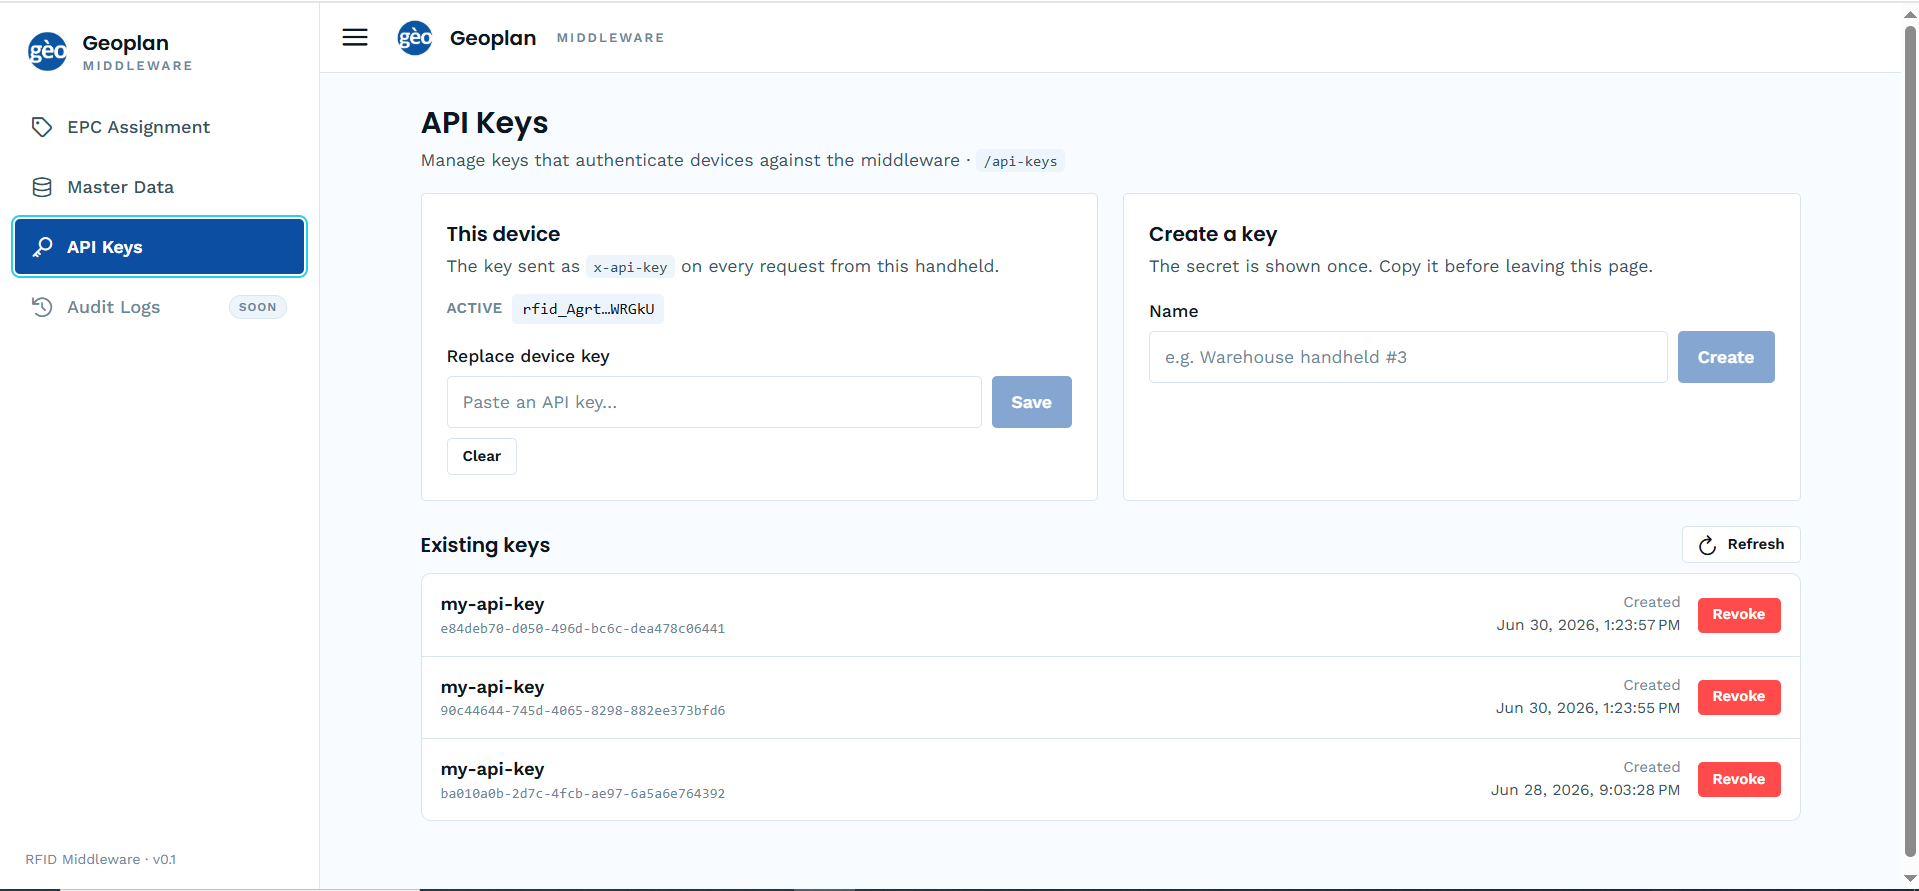
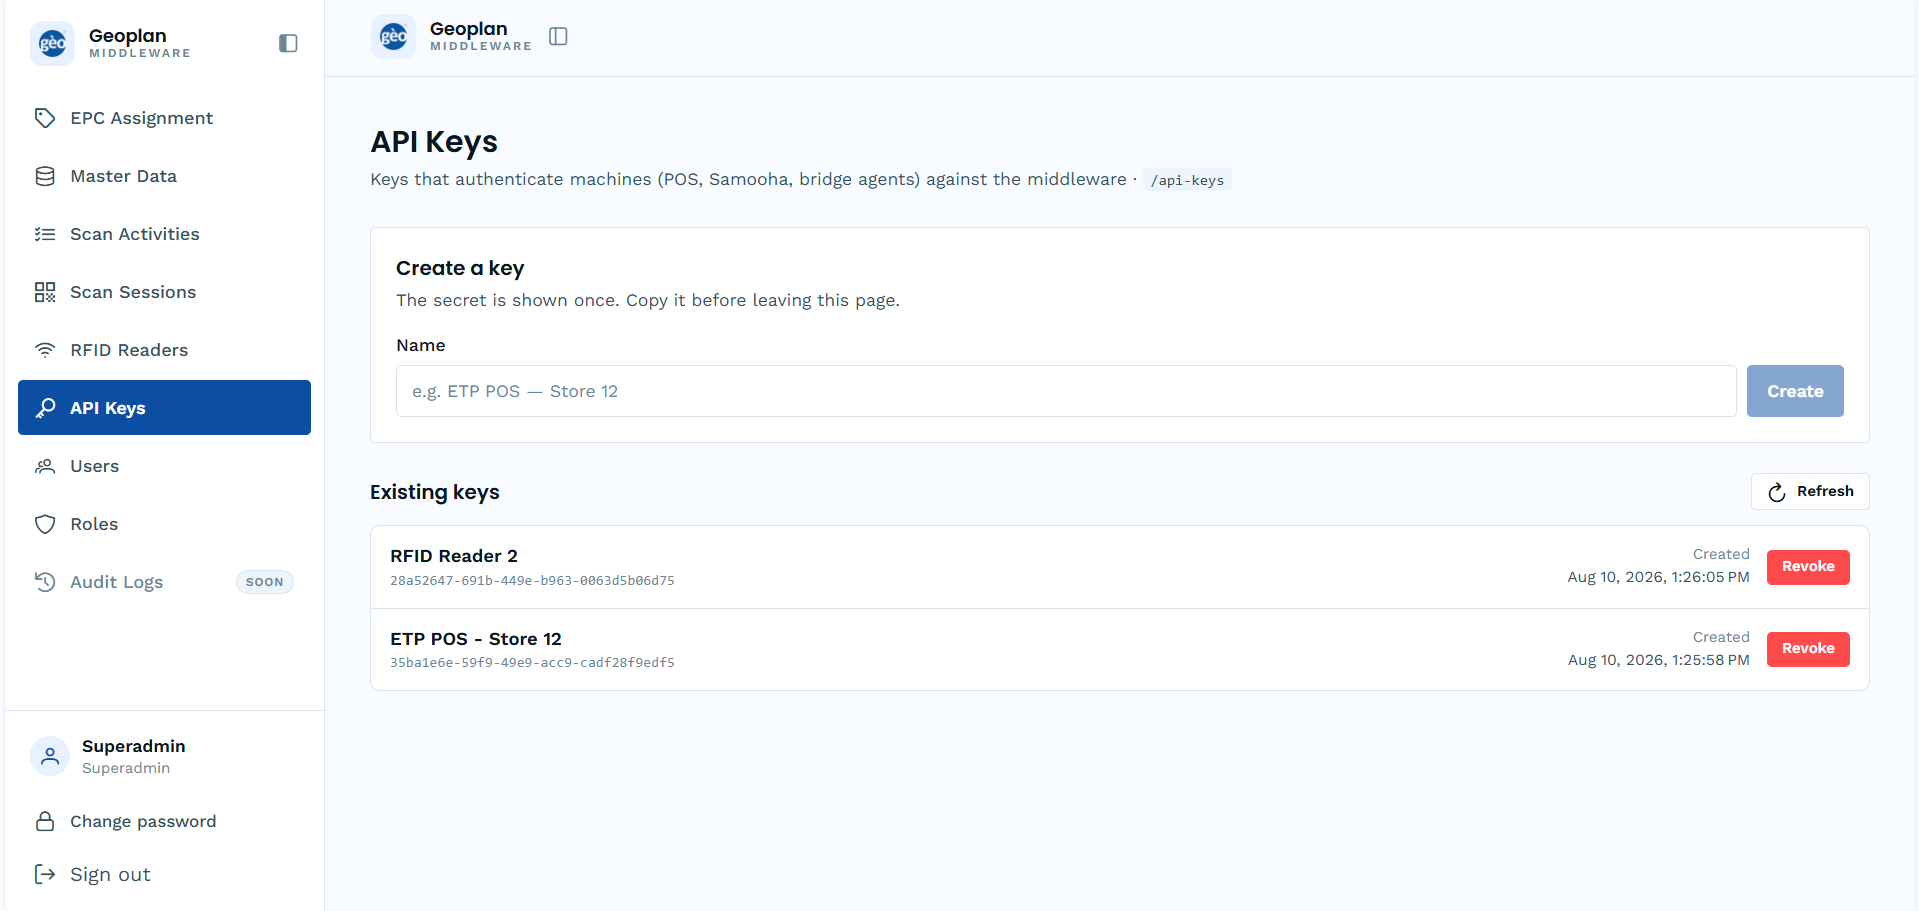
feat: add master data documentation for samooha integration.

diff --git a/docs/conflicts.md b/docs/conflicts.md
@@ -1,0 +1,94 @@
+# Docs ↔ knowledge-base conflicts
+
+Findings only — nothing here has been changed in the docs. Scope: **Samooha master data**. Other pages look inconsistent too; not investigated (see the last section).
+
+Compared: this repo's `src/content/docs/` against the knowledge base at `C:\Users\ppp\Documents\ssi_project` (`ai/knowledge/integrations/master-data-sync.md`, `ai/knowledge/integrations/samooha-geoplan.md`, `ai/knowledge/07-data-and-identifiers.md`, `ai/registers/decisions.md`, `ai/registers/open-questions.md`), plus the middleware repo `C:\Users\ppp\Documents\Geoplan\ssi-rfid-middleware` for what is actually built.
+
+Reviewed 2026-08-17.
+
+---
+
+## 1. No master-data documentation exists, and the old page contradicted the agreed design
+
+**Docs:** `src/content/docs/master-data-sync.mdx` was deleted in `7bc5519`; `astro.config.mjs:8` still redirects `/master-data-sync` → `/`. Nothing documents master data today.
+
+**The deleted page** described Geoplan **pulling** a catalogue from a configured source (`MASTER_DATA_SYNC_URL`, mock host `mock-master-data.geoplanph.com`) and published `GET /master-data-sync`, `/master-data-sync/delta`, `/master-data-sync/status`, `POST /master-data-sync/run`.
+
+**KB:** direction is **Samooha → Geoplan**, initial load by **CSV**, deltas by **API** (`D-069`, 2026-08-14).
+
+**Code has also moved on:** the list and delta endpoints now live at `GET /products` and `GET /products/delta`; source configuration is `/master-data-sources` (probe → create → activate); `master-data-sync` retains only `GET /status` and `POST /run`. So the old page was stale against both the KB and the code.
+
+**Impact:** the new page (`samooha/master-data.mdx`) documents the agreed design only and states no endpoints — because none are agreed for master data. If an endpoint-level contract is wanted, decide item 2 first.
+
+---
+
+## 2. Push vs pull — unresolved, and the built product picks a side
+
+**Built:** Geoplan fetches from a source URL the client configures. Samooha would have to **expose** a paginated product endpoint with an `updatedAfter` filter and `isDeleted` tombstones.
+
+**KB:** master-data direction is recorded as a Samooha → Geoplan **push**, but the caller is explicitly unconfirmed → `OQ-065`. Separately, `D-057` makes **Samooha the caller for every transaction exchange**, since Geoplan exposes no public webhooks — the opposite arrangement.
+
+**Impact:** the two integrations would call in opposite directions. The new page deliberately names no caller. This is the single most load-bearing open item for master data.
+
+---
+
+## 3. CSV initial load has no implementation
+
+**KB:** `D-069` — initial master-data load is a **CSV file**.
+
+**Code:** no CSV path anywhere in the middleware. `master-data-sync` and `master-data-sources` are URL-fetch only.
+
+**Also open:** `OQ-105` — manual CSV upload into the RFID platform (which datasets, which users, what permissions) was raised at Day 01 and never scoped.
+
+**Impact:** an agreed mechanism with no build behind it. Either the CSV path gets built, or the initial load rides the same API channel and `D-069` needs restating.
+
+---
+
+## 4. Rate limit published in the docs ≠ the limit agreed with Samooha
+
+**Docs:** `100 requests / 60s` — `scan-activities.mdx:16,58`, `epc-scan-processing.mdx:16,200`, `rfid-readers.mdx:14,70`, `exceptions.mdx:118`.
+
+**KB:** `D-053` — Geoplan applies **60 requests / 5 minutes** as custom anti-loop protection for the Samooha integration; no other third-party limit; to be re-assessed at test deployment.
+
+**Impact:** different number *and* different window. A nightly master-data sync of ~100k articles is exactly the traffic shape this decides. One of the two is wrong — the new page states no rate limit rather than pick.
+
+---
+
+## 5. The published product-master schema is Geoplan-shaped, not Samooha-shaped
+
+**Docs:** `qlik.mdx:24` — `master_data_sync` holds `sku`, `gtin`, `productName`, `epc`/`tid`. The deleted master-data page published the same field names as the contract.
+
+**KB:** Samooha's identifiers are **SKU / item code**, **EAN carried in the product-master Barcode field** (`D-058`), and the **VPM code**. Whether the vendor product mapping carries GTIN/EAN at all is still unconfirmed → `OQ-122`. Field-level schemas are unagreed → `OQ-060`.
+
+**Impact:** not necessarily wrong internally — Geoplan owns adaptation — but publishing `gtin` as the field a partner supplies prescribes a Geoplan-owned source schema, which the repo writing rules say to avoid, and it presumes `OQ-122`.
+
+---
+
+## 6. `UNKNOWN_EPC` states a behaviour that isn't agreed
+
+**Docs:** `samooha/index.mdx:102`, `etp-pos/index.mdx:100`, `exceptions.mdx:26` — "a scanned EPC has no matching master data", presented as a resolved exception type.
+
+**KB:** `OQ-056` — behaviour when a scanned EPC/SKU is **not** in the synced master is open. `D-076` names the warehouse exception categories (no-reads, duplicates, unknown EPCs, API failures) but not the handling rule.
+
+**Impact:** low for the exception label itself; the gap is that nothing tells Samooha what happens to the document line when the SKU is missing. Sharpened by `D-059` (payloads carry SKU only) and `OQ-063` (a same-day SKU won't be in last night's sync).
+
+---
+
+## 7. The overview page files master data under dashboard setup
+
+**Docs:** `index.mdx:12` — "setup is already done in the Geoplan dashboard: EPC assignment, master data sync, your API key…", i.e. out of scope for the reference.
+
+**KB:** for Samooha, master data is a **nightly interface from Samooha**, not a dashboard task, and `D-059` makes it a hard dependency of every transaction.
+
+**Impact:** hides the dependency from the audience most affected by it.
+
+---
+
+## Adjacent — spotted, not investigated
+
+Out of scope for this pass; listed so they aren't lost.
+
+- **Scan activities on the Samooha page** (`samooha/index.mdx:8,13,45-47`) list `GOODS_RECEIPT`, `STOCK_TRANSFER`, `CYCLE_COUNT`. KB scope is four flows — Goods Receipt, Goods Delivery, Customer Returns, Vendor Returns (`D-042` `D-045` `D-046` `D-051`). Cycle counting, put-away, picking and packing are explicitly **out of scope for RFID** (`D-043`); WH → Store stock transfer is out of scope (`D-015`).
+- **`transactionReference` example** `GRN-004521` (`samooha/index.mdx:59`). `D-070` sets the unique document identifier per flow: Goods Receipt = **Purchase Invoice**, Goods Delivery = **Sales Order**, Customer Returns = **Credit Note**, Vendor Returns = **Debit Note** — chosen precisely because a GRN can be deleted and recreated.
+- **No documentation of the pre-scan document push** (Samooha → Geoplan, at document creation for GR, at confirmation/posting for the other three, `D-061`), nor of the goods-receipt return leg (`D-042`) and its "Scanning in Progress" lock.
+- **`sap.mdx`** publishes a `GET /rfid/documents` pull and a SAP-hosted posting contract. `D-021` — SAP is not in the RMK phase. Fine as a separate track, but it is the reverse call direction from everything else on the site.
